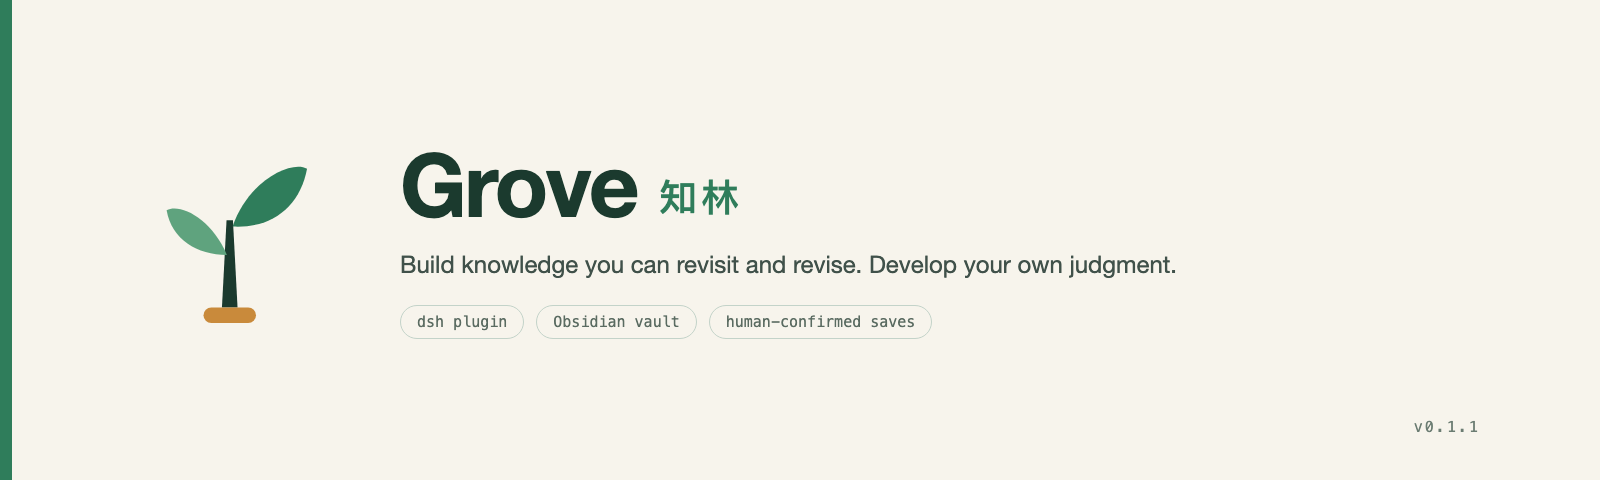
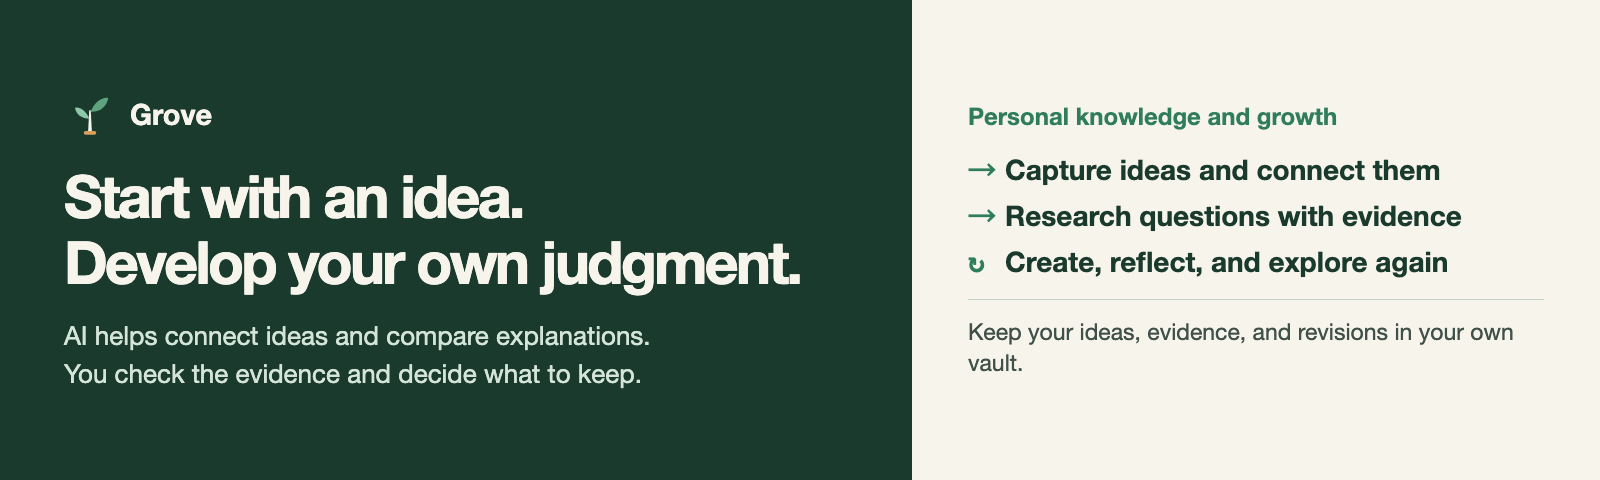
docs: restore README badges and redesign Grove covers
Use the covers to show how ideas, evidence, and reflection lead to growth, and keep compatibility badges next to the language links.

diff --git a/brand/src/readme-header.zh.html b/brand/src/readme-header.zh.html
@@ -1,15 +1,26 @@
-<html><body style="margin:0;overflow:hidden">
-<div style="position:relative;width:1600px;height:480px;background:#F7F4EC;">
-  <div style="position:absolute;left:0;top:0;bottom:0;width:12px;background:#2F7D5B;"></div>
-  <img src="../mark.svg" style="position:absolute;left:120px;top:126px;width:228px;height:228px;">
-  <div style="position:absolute;left:400px;top:140px;font-family:'SF Pro Display','Helvetica Neue',Helvetica,Arial,sans-serif;">
-    <div style="font-size:88px;line-height:1;font-weight:600;letter-spacing:-2.5px;color:#1B3A2E;">Grove <span style="font-family:'PingFang SC','Source Han Sans SC',sans-serif;font-size:40px;font-weight:500;letter-spacing:4px;color:#2F7D5B;vertical-align:6px;">知林</span></div>
-    <div style="margin-top:22px;font-family:'PingFang SC','Source Han Sans SC',sans-serif;font-size:24px;color:#40514A;">积累可回看、可修正的知识，形成自己的判断。</div>
-    <div style="margin-top:26px;display:flex;gap:12px;font-family:'SF Mono','SFMono-Regular',Menlo,monospace;font-size:15px;color:#5A6B61;">
-      <span style="border:1px solid #C3D3C9;border-radius:999px;padding:7px 16px;">dsh plugin</span>
-      <span style="border:1px solid #C3D3C9;border-radius:999px;padding:7px 16px;">Obsidian vault</span>
-      <span style="border:1px solid #C3D3C9;border-radius:999px;padding:7px 16px;">human-confirmed saves</span>
-    </div>
-  </div>
-  <div style="position:absolute;right:120px;bottom:44px;font-family:'SF Mono','SFMono-Regular',Menlo,monospace;font-size:15px;letter-spacing:2px;color:#6B7C72;">v0.1.1</div>
-</div></body></html>
+<!doctype html>
+<html lang="zh-CN">
+<head>
+  <meta charset="utf-8">
+  <link rel="stylesheet" href="readme-header.css">
+  <title>Grove 知林</title>
+</head>
+<body>
+  <main class="cover">
+    <section class="intro">
+      <div class="wordmark"><img src="../mark-on-dark.svg" alt="">Grove 知林</div>
+      <h1>从一念灵感出发，<br>长出自己的判断。</h1>
+      <p>AI 帮你发现联系、比较解释。<br>你核对证据，决定相信什么、留下什么。</p>
+    </section>
+    <section class="practice">
+      <h2>个人知识与认知成长</h2>
+      <ol>
+        <li><span class="arrow" aria-hidden="true">→</span>记下灵感，连接已有知识</li>
+        <li><span class="arrow" aria-hidden="true">→</span>按需深挖，用证据形成判断</li>
+        <li><span class="arrow" aria-hidden="true">↻</span>表达与反思，带回下一轮探索</li>
+      </ol>
+      <p>原文、证据和修订留在自己的笔记库。</p>
+    </section>
+  </main>
+</body>
+</html>

diff --git a/brand/src/readme-header.en.html b/brand/src/readme-header.en.html
@@ -1,15 +1,26 @@
-<html><body style="margin:0;overflow:hidden">
-<div style="position:relative;width:1600px;height:480px;background:#F7F4EC;">
-  <div style="position:absolute;left:0;top:0;bottom:0;width:12px;background:#2F7D5B;"></div>
-  <img src="../mark.svg" style="position:absolute;left:120px;top:126px;width:228px;height:228px;">
-  <div style="position:absolute;left:400px;top:140px;font-family:'SF Pro Display','Helvetica Neue',Helvetica,Arial,sans-serif;">
-    <div style="font-size:88px;line-height:1;font-weight:600;letter-spacing:-2.5px;color:#1B3A2E;">Grove <span style="font-family:'PingFang SC','Source Han Sans SC',sans-serif;font-size:38px;font-weight:500;letter-spacing:4px;color:#2F7D5B;vertical-align:6px;">知林</span></div>
-    <div style="margin-top:22px;font-size:24px;color:#40514A;">Build knowledge you can revisit and revise. Develop your own judgment.</div>
-    <div style="margin-top:26px;display:flex;gap:12px;font-family:'SF Mono','SFMono-Regular',Menlo,monospace;font-size:15px;color:#5A6B61;">
-      <span style="border:1px solid #C3D3C9;border-radius:999px;padding:7px 16px;">dsh plugin</span>
-      <span style="border:1px solid #C3D3C9;border-radius:999px;padding:7px 16px;">Obsidian vault</span>
-      <span style="border:1px solid #C3D3C9;border-radius:999px;padding:7px 16px;">human-confirmed saves</span>
-    </div>
-  </div>
-  <div style="position:absolute;right:120px;bottom:44px;font-family:'SF Mono','SFMono-Regular',Menlo,monospace;font-size:15px;letter-spacing:2px;color:#6B7C72;">v0.1.1</div>
-</div></body></html>
+<!doctype html>
+<html lang="en">
+<head>
+  <meta charset="utf-8">
+  <link rel="stylesheet" href="readme-header.css">
+  <title>Grove</title>
+</head>
+<body>
+  <main class="cover">
+    <section class="intro">
+      <div class="wordmark"><img src="../mark-on-dark.svg" alt="">Grove</div>
+      <h1>Start with an idea.<br>Develop your own judgment.</h1>
+      <p>AI helps connect ideas and compare explanations.<br>You check the evidence and decide what to keep.</p>
+    </section>
+    <section class="practice">
+      <h2>Personal knowledge and growth</h2>
+      <ol>
+        <li><span class="arrow" aria-hidden="true">→</span>Capture ideas and connect them</li>
+        <li><span class="arrow" aria-hidden="true">→</span>Research questions with evidence</li>
+        <li><span class="arrow" aria-hidden="true">↻</span>Create, reflect, and explore again</li>
+      </ol>
+      <p>Keep your ideas, evidence, and revisions in your own vault.</p>
+    </section>
+  </main>
+</body>
+</html>

diff --git a/brand/src/readme-header.css b/brand/src/readme-header.css
@@ -1,0 +1,38 @@
+@import url('../tokens.css');
+
+* { box-sizing: border-box; }
+body {
+  margin: 0;
+  font-family: "SF Pro Display", "Helvetica Neue", "PingFang SC", Arial, sans-serif;
+}
+.cover {
+  width: 1600px;
+  height: 480px;
+  display: grid;
+  grid-template-columns: 57% 43%;
+  color: var(--grove-ink);
+  background: var(--grove-paper);
+}
+.intro {
+  background: var(--grove-ink);
+  color: var(--grove-paper);
+  padding: 55px 64px;
+  display: grid;
+  align-content: center;
+  gap: 21px;
+}
+.wordmark { display: flex; align-items: center; gap: 12px; font-size: 29px; font-weight: 650; }
+.wordmark img { width: 54px; height: 54px; }
+h1 { margin: 0; font-size: 59px; line-height: 1.13; font-weight: 650; letter-spacing: -.045em; }
+.intro p { margin: 0; color: #d4e4d8; font-size: 26px; line-height: 1.45; }
+.practice {
+  display: grid;
+  align-content: center;
+  gap: 19px;
+  padding: 55px 56px;
+}
+.practice h2 { font-size: 24px; color: var(--grove-green); margin: 0 0 3px; font-weight: 650; }
+.practice ol { list-style: none; margin: 0; padding: 0; display: grid; gap: 12px; }
+.practice li { display: grid; grid-template-columns: 27px 1fr; align-items: baseline; gap: 10px; font-size: 28px; line-height: 1.23; font-weight: 600; }
+.arrow { color: var(--grove-green); }
+.practice p { margin: 0; padding-top: 17px; border-top: 1px solid var(--grove-line); color: var(--grove-ink-soft); font-size: 23px; line-height: 1.34; }

diff --git a/README.en.md b/README.en.md
@@ -1,8 +1,12 @@
 # Grove
 
-![Grove. Build knowledge you can revisit and revise.](brand/exports/readme-header-1600x480.en.png)
+![Grove. Start with an idea, form a judgment with evidence, and carry what you learn into the next inquiry.](brand/exports/readme-header-1600x480.en.png)
 
-[简体中文](README.md) · [English](README.en.md) · [MIT license](LICENSE)
+[简体中文](README.md) · [English](README.en.md)
+
+[![MIT license](https://img.shields.io/badge/license-MIT-2F7D5B?style=flat-square)](LICENSE)
+[![DeepSeek Harness >=0.2.2-rc.1 <0.3.0](https://img.shields.io/badge/dsh-%3E%3D0.2.2--rc.1_%3C0.3.0-1B3A2E?style=flat-square)](package.json)
+[![Node.js >=22.13.0](https://img.shields.io/badge/Node.js-22.13%2B-2F7D5B?style=flat-square&logo=nodedotjs&logoColor=white)](package.json)
 
 ## Why Grove exists
 

diff --git a/README.md b/README.md
@@ -1,8 +1,12 @@
 # Grove（知林）
 
-![Grove 知林，积累可回看、可修正的知识](brand/exports/readme-header-1600x480.zh.png)
+![Grove 知林。从灵感出发，用证据形成判断，带着反思进入下一轮探索。](brand/exports/readme-header-1600x480.zh.png)
 
-[简体中文](README.md) · [English](README.en.md) · [MIT 许可](LICENSE)
+[简体中文](README.md) · [English](README.en.md)
+
+[![MIT 许可](https://img.shields.io/badge/license-MIT-2F7D5B?style=flat-square)](LICENSE)
+[![DeepSeek Harness >=0.2.2-rc.1 <0.3.0](https://img.shields.io/badge/dsh-%3E%3D0.2.2--rc.1_%3C0.3.0-1B3A2E?style=flat-square)](package.json)
+[![Node.js >=22.13.0](https://img.shields.io/badge/Node.js-22.13%2B-2F7D5B?style=flat-square&logo=nodedotjs&logoColor=white)](package.json)
 
 ## 缘起
 
